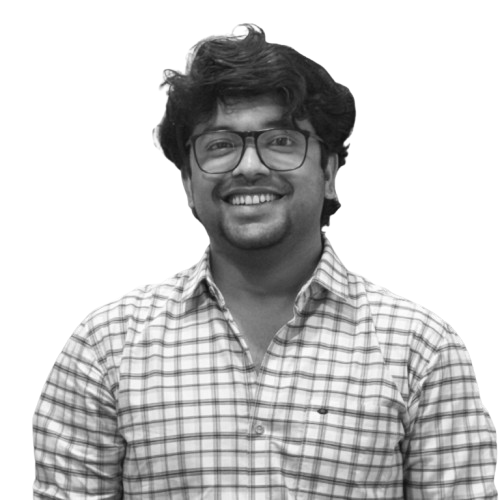
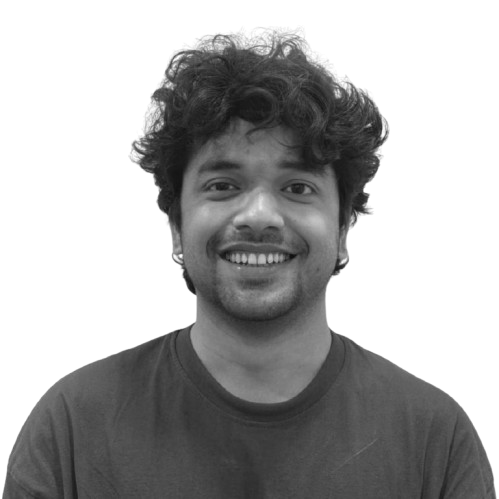
Team: swap Manas photo (new B&W cutout); Pravar designation -> UI/UX

diff --git a/_parts/team.html b/_parts/team.html
@@ -47,7 +47,7 @@
     </div>
     <div class="person">
       <div class="ph"><img src="assets/img/team/pravar.png" alt="Pravar Oza"></div>
-      <h3>Pravar Oza</h3><div class="role">Design</div>
+      <h3>Pravar Oza</h3><div class="role">UI/UX</div>
       <p class="bio">Shapes how Infi looks, moves and feels, from the first screen to the smallest line of microcopy. Trained at NID.</p>
     </div>
     <div class="person">

diff --git a/team.html b/team.html
@@ -114,7 +114,7 @@
     </div>
     <div class="person">
       <div class="ph"><img src="assets/img/team/pravar.png" alt="Pravar Oza"></div>
-      <h3>Pravar Oza</h3><div class="role">Design</div>
+      <h3>Pravar Oza</h3><div class="role">UI/UX</div>
       <p class="bio">Shapes how Infi looks, moves and feels, from the first screen to the smallest line of microcopy. Trained at NID.</p>
     </div>
     <div class="person">